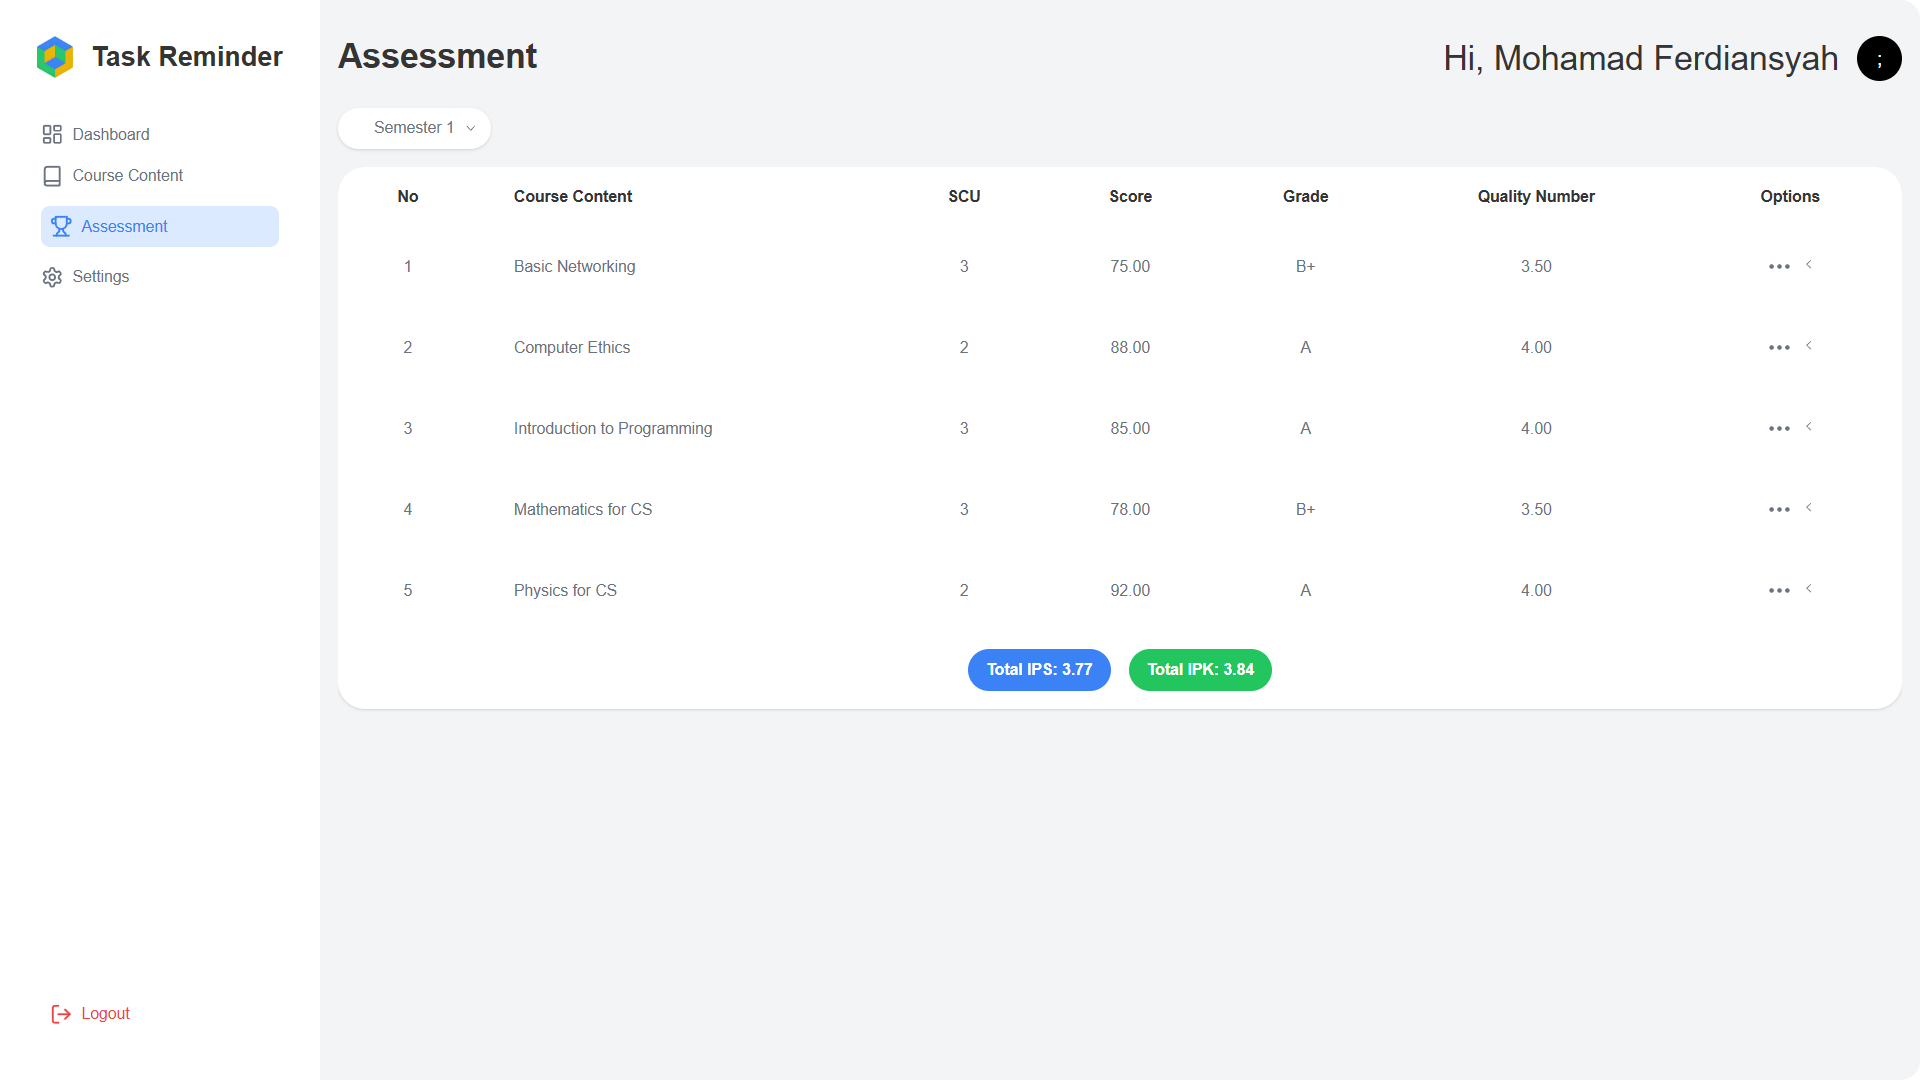
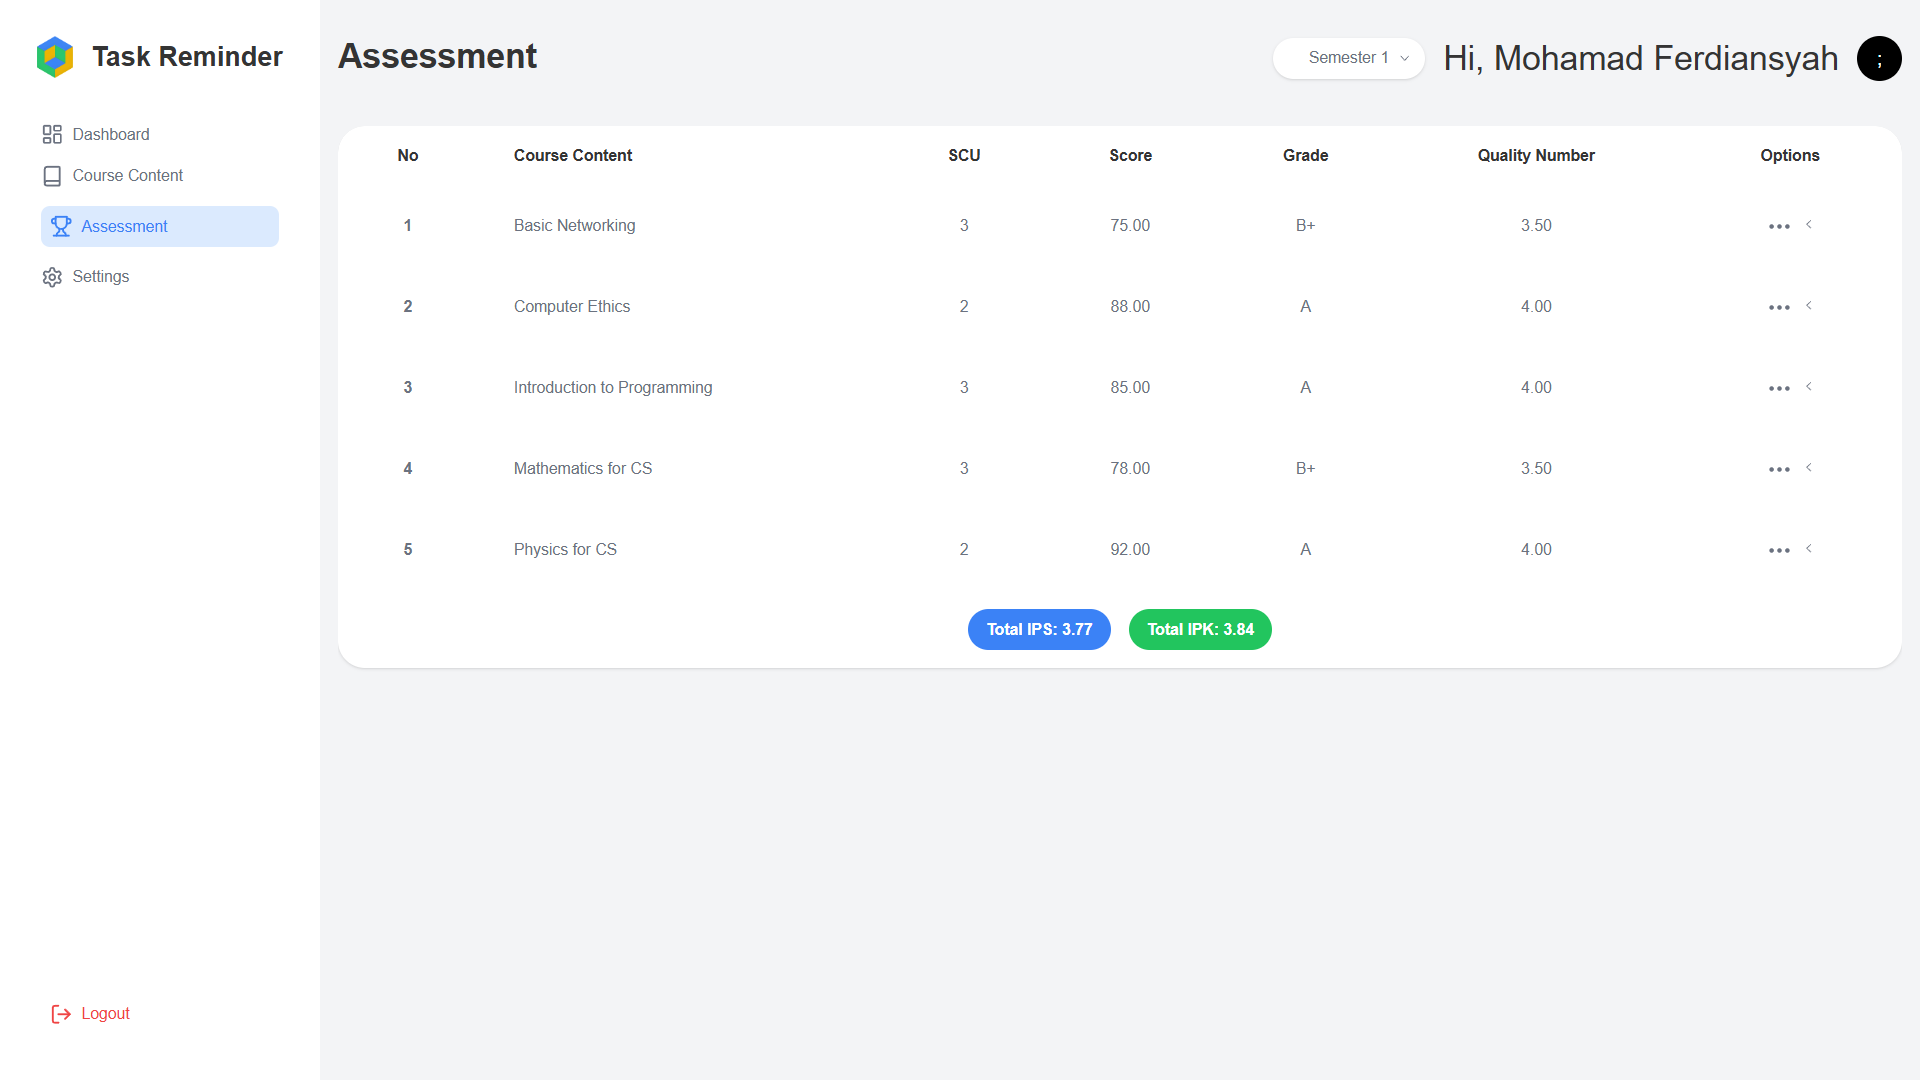
feat: integrate Zustand for semester state management and update components to use new store

diff --git a/client/src/components/Chart/BarChart.jsx b/client/src/components/Chart/BarChart.jsx
@@ -2,15 +2,14 @@ import { Bar } from 'react-chartjs-2';
 import { ListChecks } from 'lucide-react';
 import { Chart as ChartJS, CategoryScale, LinearScale, BarElement, Title, Tooltip, Legend } from 'chart.js';
 import { useEffect, useState } from 'react';
-import { Placeholder, Dropdown } from 'rsuite';
+import { Placeholder } from 'rsuite';
 import axios from 'axios';
+import useSemesterStore from '../../store/useSemesterStore';
 
 ChartJS.register(CategoryScale, LinearScale, BarElement, Title, Tooltip, Legend);
 
 export const BarChart = () => {
     const apiUrl = import.meta.env.VITE_API_URL;
-    const [title, setTitle] = useState('Semester 1');
-    const [selectedSemester, setSelectedSemester] = useState('Semester 1');
     const [isLoadingData, setIsLoadingData] = useState(false);
     const [courseContents, setCourseContents] = useState([]);
     const [selectedCourse, setSelectedCourse] = useState(null);
@@ -18,12 +17,10 @@ export const BarChart = () => {
     const [uncompletedTask, setUncompletedTask] = useState(null)
     const [totalTask, setTotalTask] = useState(null)
 
+    const { semester: selectedSemester } = useSemesterStore();
+
     const token = localStorage.getItem('token');
     let taskNumber = 0;
-
-    const semesters = ['Semester 1', 'Semester 2', 'Semester 3', 'Semester 4', 'Semester 5', 'Semester 6', 'Semester 7', 'Semester 8'].map(
-        (semester) => ({ label: semester, value: semester })
-    );
 
     const fetchCourseContents = async (semester) => {
         setIsLoadingData(true);
@@ -113,27 +110,6 @@ export const BarChart = () => {
 
     return (
         <>
-            <div className="flex justify-end">
-                <Dropdown
-                    title={title}
-                    trigger="click"
-                    toggleClassName='bg-white rounded-full p-2 px-8 text-gray-500 shadow hover:bg-gray-50 transition-colors'
-                >
-                    {semesters.map((semester) => (
-                        <Dropdown.Item
-                            key={semester.value}
-                            eventKey={semester.value}
-                            onClick={() => {
-                                setTitle(semester.label);
-                                setSelectedSemester(semester.value);
-                            }}
-                            className='hover:bg-gray-100 transition-colors'
-                        >
-                            {semester.label}
-                        </Dropdown.Item>
-                    ))}
-                </Dropdown>
-            </div>
             <div className="lg:flex lg:space-y-0 space-y-4 justify-between gap-4 my-4">
                 <div className="flex items-center justify-between gap-8 bg-white rounded-3xl p-4 px-8 flex-1 shadow">
                     <div className="space-y-0 text-gray-500">

diff --git a/client/src/components/Assessment/Assessment.jsx b/client/src/components/Assessment/Assessment.jsx
@@ -2,11 +2,10 @@ import { useEffect, useState } from 'react'
 import { Placeholder, Dropdown, Modal, Button, Form, Input, InputNumber, useToaster, Message, Loader } from 'rsuite';
 import { Ellipsis } from 'lucide-react';
 import axios from 'axios';
+import useSemesterStore from '../../store/useSemesterStore';
 
 export const Assessment = () => {
     const apiUrl = import.meta.env.VITE_API_URL;
-    const [title, setTitle] = useState('Semester 1');
-    const [selectedSemester, setSelectedSemester] = useState('Semester 1');
     const [isLoadingData, setIsLoadingData] = useState(false);
     const [isLoading, setIsLoading] = useState(false);
     const [courseContents, setCourseContents] = useState([]);
@@ -18,12 +17,10 @@ export const Assessment = () => {
     const [totalIpk, setTotalIpk] = useState(0);
     const [course, setCourse] = useState('');
 
+    const { semester: selectedSemester } = useSemesterStore();
+
     const token = localStorage.getItem('token');
     const toaster = useToaster();
-
-    const semesters = ['Semester 1', 'Semester 2', 'Semester 3', 'Semester 4', 'Semester 5', 'Semester 6', 'Semester 7', 'Semester 8'].map(
-        (semester) => ({ label: semester, value: semester })
-    );
 
     const fetchCourseContents = async (semester) => {
         setIsLoadingData(true);
@@ -128,29 +125,10 @@ export const Assessment = () => {
     useEffect(() => {
         fetchCourseContents(selectedSemester)
         document.title = 'Assessments - Task Reminder';
-    }, []);
+    }, [selectedSemester]);
     return (
         <>
             <div className='container'>
-                <Dropdown
-                    title={title}
-                    trigger="click"
-                    toggleClassName='bg-white rounded-full p-2 px-8 text-gray-500 shadow'
-                >
-                    {semesters.map((semester) => (
-                        <Dropdown.Item
-                            key={semester.value}
-                            eventKey={semester.value}
-                            onClick={() => {
-                                setTitle(semester.label);
-                                setSelectedSemester(semester.label);
-                                fetchCourseContents(semester.label);
-                            }}
-                        >
-                            {semester.label}
-                        </Dropdown.Item>
-                    ))}
-                </Dropdown>
                 <div className='my-4 overflow-x-auto rounded-3xl'>
                     <table className="min-w-full bg-white rounded-3xl mb-8 shadow">
                         <thead>

diff --git a/client/src/components/Header/Header.jsx b/client/src/components/Header/Header.jsx
@@ -1,10 +1,17 @@
 import { Avatar } from 'rsuite'
 import { useEffect } from 'react'
 import { useNavigate } from 'react-router-dom';
+import { Dropdown } from 'rsuite';
+import useSemesterStore from "../../store/useSemesterStore";
 
 const Header = ({ title }) => {
     const storedName = localStorage.getItem('name');
     const navigate = useNavigate();
+    const { semesterLabel, setSemester } = useSemesterStore();
+
+    const semesters = ['Semester 1', 'Semester 2', 'Semester 3', 'Semester 4', 'Semester 5', 'Semester 6', 'Semester 7', 'Semester 8'].map(
+        (semester) => ({ label: semester, value: semester })
+    );
 
     useEffect(() => {
         localStorage.removeItem('isPasswordReset');
@@ -24,13 +31,33 @@ const Header = ({ title }) => {
             <div className="flex justify-between w-full px-4 pb-2 bg-gray-100">
                 <h1 className="text-3xl pt-8 font-bold">{title}</h1>
                 <div className='flex items-center gap-4 pt-8'>
-                    <p className="hidden lg:block text-3xl">Hi, {storedName}</p>
-                    <Avatar
-                        circle
-                        style={{ background: '#000' }}
+                    <Dropdown
+                        title={semesterLabel}
+                        trigger="click"
+                        toggleClassName='bg-white rounded-full p-2 px-8 text-gray-500 shadow hover:bg-gray-50 transition-colors'
                     >
-                        ;
-                    </Avatar>
+                        {semesters.map((semester) => (
+                            <Dropdown.Item
+                                key={semester.value}
+                                eventKey={semester.value}
+                                onClick={() => {
+                                    setSemester(semester.value, semester.label);
+                                }}
+                                className='hover:bg-gray-100 transition-colors'
+                            >
+                                {semester.label}
+                            </Dropdown.Item>
+                        ))}
+                    </Dropdown>
+                    <p className="hidden lg:block text-3xl">Hi, {storedName}</p>
+                    <div className='hidden lg:block'>
+                        <Avatar
+                            circle
+                            style={{ background: '#000' }}
+                        >
+                            ;
+                        </Avatar>
+                    </div>
                 </div>
             </div>
         </>

diff --git a/client/src/components/CourseContent/CourseContent.jsx b/client/src/components/CourseContent/CourseContent.jsx
@@ -3,6 +3,7 @@ import { Placeholder, IconButton, Dropdown, Modal, Button, Form, Input, SelectPi
 import { Ellipsis } from 'lucide-react';
 import PlusIcon from '@rsuite/icons/Plus';
 import axios from 'axios';
+import useSemesterStore from '../../store/useSemesterStore';
 
 export const CourseContent = () => {
     const apiUrl = import.meta.env.VITE_API_URL;
@@ -11,8 +12,6 @@ export const CourseContent = () => {
     const [totalScu, setTotalScu] = useState(0);
     const [isLoadingData, setIsLoadingData] = useState(false);
     const [isLoading, setIsLoading] = useState(false);
-    const [title, setTitle] = useState('Semester 1');
-    const [selectedSemester, setSelectedSemester] = useState('Semester 1');
     const [open, setOpen] = useState(false);
     const [updateOpen, setUpdateOpen] = useState(false);
     const [selectedContent, setSelectedContent] = useState(null);
@@ -27,6 +26,8 @@ export const CourseContent = () => {
     const [message, setMessage] = useState({});
     const [deleteOpen, setDeleteOpen] = useState(false);
     const [deleteContentId, setDeleteContentId] = useState(null);
+
+    const { semester: selectedSemester } = useSemesterStore();
 
     const token = localStorage.getItem('token');
     const toaster = useToaster();
@@ -238,30 +239,11 @@ export const CourseContent = () => {
     useEffect(() => {
         fetchCourseContents(selectedSemester);
         document.title = 'Course Contents - Task Reminder';
-    }, []);
+    }, [selectedSemester]);
 
     return (
         <div className='container'>
             <div className="flex justify-between">
-                <Dropdown
-                    title={title}
-                    trigger="click"
-                    toggleClassName='bg-white rounded-full p-2 px-8 text-gray-500 shadow'
-                >
-                    {semesters.map((semester) => (
-                        <Dropdown.Item
-                            key={semester.value}
-                            eventKey={semester.value}
-                            onClick={() => {
-                                setTitle(semester.label);
-                                setSelectedSemester(semester.label);
-                                fetchCourseContents(semester.label);
-                            }}
-                        >
-                            {semester.label}
-                        </Dropdown.Item>
-                    ))}
-                </Dropdown>
                 <IconButton
                     onClick={handleOpen}
                     className='shadow'

diff --git a/client/src/store/useSemesterStore.js b/client/src/store/useSemesterStore.js
@@ -1,0 +1,17 @@
+import { create } from "zustand";
+import { persist } from "zustand/middleware";
+
+const useSemesterStore = create(
+    persist(
+        (set) => ({
+            semester: "",
+            semesterLabel: "Semester 1",
+            setSemester: (semester, label) => set({ semester, semesterLabel: label }),
+        }),
+        {
+            name: "semester-storage",
+        }
+    )
+);
+
+export default useSemesterStore;

diff --git a/README.md b/README.md
@@ -1,38 +1,41 @@
 <p align="center">
-  <img src="https://i.imgur.com/HKm1Q6q.png" alt="Logo" width="150">
+  <img src="./screen/logo.png" alt="Logo" width="150">
 </p>
 
 # Task Reminder
 
-Task Reminder adalah aplikasi pengingat tugas kuliah yang dirancang untuk membantu mahasiswa mengelola dan memprioritaskan tugas mereka. Aplikasi ini menawarkan fitur pengingat otomatis, penjadwalan tugas, dan antarmuka yang ramah pengguna untuk memastikan semua pekerjaan selesai tepat waktu.
+Task Reminder is a college assignment reminder application designed to help students manage and prioritize their tasks. This app offers automatic reminders, task scheduling, and a user-friendly interface to ensure all assignments are completed on time.
 
-## Fitur
+## Features
 
-- **Pengingat Otomatis**: Mengirim notifikasi kepada pengguna untuk tugas yang mendekati tenggat waktu, memastikan tidak ada tugas yang terlewat.
-- **Penjadwalan Tugas**: Memungkinkan pengguna menambahkan tugas dengan tanggal jatuh tempo serta pengingat yang dapat disesuaikan sesuai kebutuhan.
-- **Antarmuka Pengguna yang Ramah**: Dirancang dengan tampilan sederhana dan intuitif untuk memberikan pengalaman pengguna yang nyaman dan efisien.
-- **Prioritas Tugas**: Memungkinkan pengguna menetapkan tingkat kepentingan pada setiap tugas untuk membantu fokus pada pekerjaan yang lebih mendesak.
-- **Chart**: Menampilkan grafik jumlah tugas berdasarkan semester dan status, membantu pengguna memahami distribusi tugas secara keseluruhan.
-- **Penilaian**: Memungkinkan mahasiswa mencatat nilai untuk setiap mata kuliah, dengan sistem yang otomatis menghitung IPS dan IPK berdasarkan data yang dimasukkan.
+- **Automatic Reminders**: Sends notifications for upcoming deadlines, ensuring no task is missed.
+- **Task Scheduling**: Allows users to add assignments with due dates and customizable reminders.
+- **User-Friendly Interface**: Designed with a simple and intuitive layout for a comfortable and efficient user experience.
+- **Task Prioritization**: Enables users to set importance levels for tasks, helping them focus on the most urgent work.
+- **Charts**: Displays graphs of task distribution based on semesters and statuses, helping users understand overall workload distribution.
+- **Grading System**: Allows students to record grades for each course, with an automatic system that calculates GPA based on the entered data.
 
-## Screenshot
+## Screenshots
 
-Berikut adalah tampilan antarmuka aplikasi Task Reminder:
+Here are the interface screenshots of Task Reminder:
 
 ### Dashboard
-![Task Reminder Dashboard Screenshot](./screen/dashboard.png)
+<img src="./screen/dashboard.png" alt="Task Reminder Dashboard Screenshot" style="border-radius: 10px;">
 
 ### Bar Chart
-![Task Reminder Bar Chart Screenshot](./screen/bar-chart.png)
+<img src="./screen/bar-chart.png" alt="Task Reminder Bar Chart Screenshot" style="border-radius: 10px;">
 
 ### Course Contents
-![Task Reminder Course Contents Screenshot](./screen/course-contents.png)
+<img src="./screen/course-contents.png" alt="Task Reminder Course Contents Screenshot" style="border-radius: 10px;">
 
 ### Assessments
-![Task Reminder  Screenshot](./screen/assessments.png)
+<img src="./screen/assessments.png" alt="Task Reminder Screenshot" 
+style="border-radius: 10px;">
 
 ### Settings
-![Task Reminder Settings Screenshot](./screen/settings.png)
+<img src="./screen/settings.png" alt="Task Reminder Settings Screenshot" 
+style="border-radius: 10px;">
 
 ### Grades
-![Task Reminder Grades Screenshot](./screen/grades.png)
+<img src="./screen/grades.png" alt="Task Reminder Grades Screenshot" 
+style="border-radius: 10px;">
